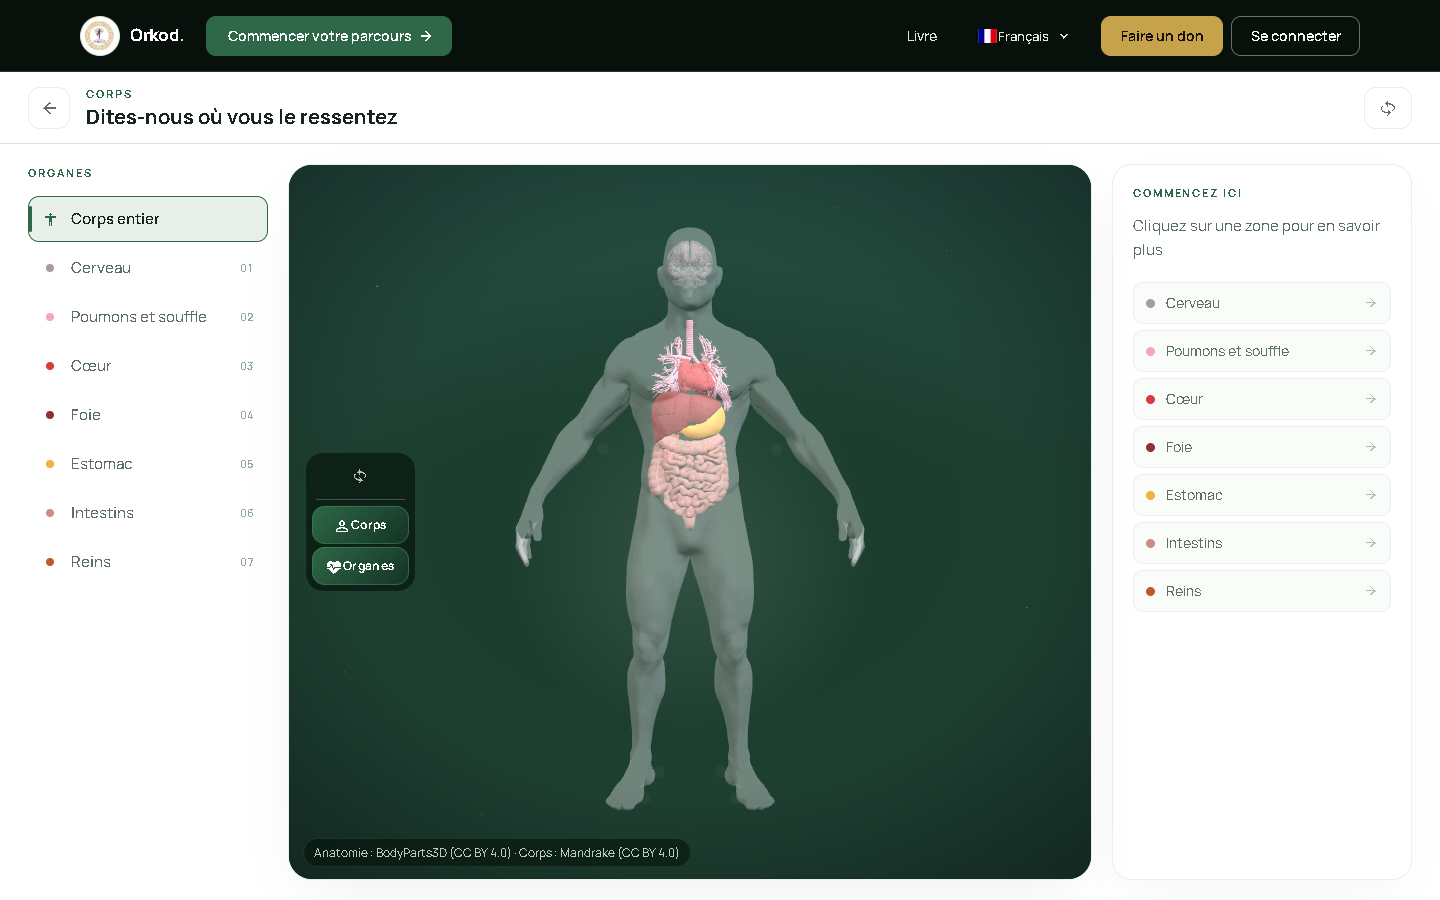
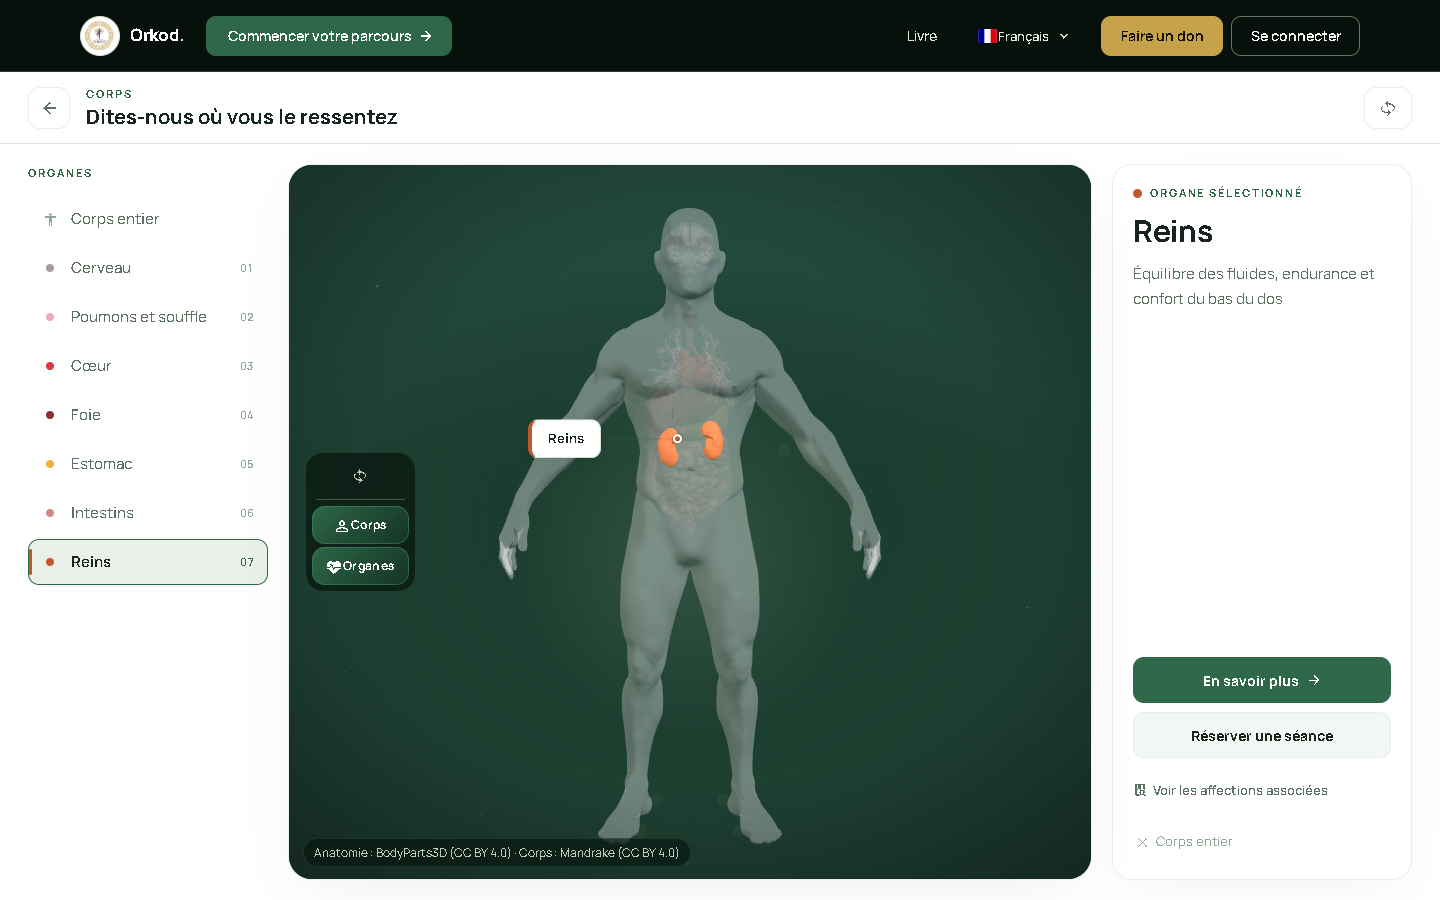
Final audit: verified all 7 organs, no clipping, 136 tests pass, accurate contact sheet

diff --git a/orkod-visual-overhaul/contact-sheet.html b/orkod-visual-overhaul/contact-sheet.html
@@ -26,7 +26,6 @@
     color: #2F6848;
   }
   p { margin-bottom: 16px; color: #5D7163; }
-  .section { margin-bottom: 40px; }
   .contact-grid {
     display: grid;
     grid-template-columns: repeat(auto-fill, minmax(300px, 1fr));
@@ -74,21 +73,22 @@
 <body>
 
 <h1>Orkod Visual Overhaul — Contact Sheet</h1>
-<p class="muted">Final implementation screenshots for /start, /home, /body — captured from the running site at http://localhost:5177</p>
+<p class="muted">Final implementation screenshots for /start, /home, /body redesign plus chapter-scroll fix and body-organ verification.</p>
 
-<p><strong>Gallery URL:</strong> <a href="https://raw.githubusercontent.com/rezoroyone-dev/orkod-review/visual-review-final/orkod-visual-overhaul/index.md" target="_blank">orkod-review / visual-review / orkod-visual-overhaul</a></p>
+<p><strong>Gallery repository:</strong> <a href="https://github.com/rezoroyone-dev/orkod-review/tree/visual-review-final/orkod-visual-overhaul" target="_blank">rezoroyone-dev/orkod-review — branch visual-review-final</a></p>
+<p><strong>Raw base URL:</strong> <a href="https://raw.githubusercontent.com/rezoroyone-dev/orkod-review/visual-review-final/orkod-visual-overhaul/" target="_blank">https://raw.githubusercontent.com/rezoroyone-dev/orkod-review/visual-review-final/orkod-visual-overhaul/</a></p>
 
-  <h2>1. /start — Healing Journey Entry</h2>
+<h2>1. /start — Healing Journey Entry</h2>
 <div class="contact-grid">
   <div class="contact-item">
     <img src="start-desktop-final.png" alt="Start page desktop">
     <div class="label">/start — Desktop 1440×900</div>
-    <div class="desc">Two choice cards: "I know where I feel discomfort" → body explorer, "I don't know the cause" → quiz. Nature background supports content. CTAs visible without hover. Anatomical preview properly contained within card, no edge clipping.</div>
+    <div class="desc">Two choice cards: "Commencer l'exploration" → body explorer, "Commencer" → quiz. Nature background supports content. CTAs visible without hover (opacity 1, visibility visible).</div>
   </div>
   <div class="contact-item">
     <img src="start-mobile-390-final.png" alt="Start page mobile 390">
     <div class="label">/start — Mobile 390×844</div>
-    <div class="desc">Mobile 390×844 — stacked cards, full anatomical preview visible (object-fit: contain).</div>
+    <div class="desc">Stacked cards, full anatomical preview visible (object-fit: contain). No horizontal overflow.</div>
   </div>
   <div class="contact-item">
     <img src="start-mobile-360-final.png" alt="Start page narrow mobile">
@@ -98,7 +98,7 @@
   <div class="contact-item">
     <img src="start-mobile-414-final.png" alt="Start page mobile 414">
     <div class="label">/start — Mobile 414×896</div>
-    <div class="desc">Mobile 414×896 — premium composition, no clipping.</div>
+    <div class="desc">Premium composition, no clipping.</div>
   </div>
 </div>
 
@@ -112,27 +112,17 @@
   <div class="contact-item">
     <img src="home-ch2-scroll-desktop-final.png" alt="Home chapter 2 scroll desktop">
     <div class="label">/home — Chapter 2 after wheel scroll</div>
-    <div class="desc">Chapter 2 settled at top after scroll-snap enforcement, book cover visible, truthful "in preparation" message.</div>
-  </div>
-  <div class="contact-item">
-    <img src="home-ch1-tablet-final.png" alt="Home chapter 1 tablet">
-    <div class="label">/home — Chapter 1 Tablet 768×1024</div>
-    <div class="desc">Tablet proportions, heading readable.</div>
-  </div>
-  <div class="contact-item">
-    <img src="home-ch2-scroll-tablet-final.png" alt="Home chapter 2 tablet">
-    <div class="label">/home — Chapter 2 Tablet</div>
-    <div class="desc">Chapter 2 settled after scroll.</div>
+    <div class="desc">Chapter 2 settled at top after scroll-snap enforcement. No content clipped near top. Book cover visible, "in preparation" message.</div>
   </div>
   <div class="contact-item">
     <img src="home-ch1-mobile-final.png" alt="Home chapter 1 mobile">
     <div class="label">/home — Chapter 1 Mobile 390×844</div>
-    <div class="desc">Mobile hero composition fills viewport.</div>
+    <div class="desc">Mobile hero composition fills viewport. Chapter heading visible.</div>
   </div>
   <div class="contact-item">
     <img src="home-ch2-scroll-mobile-final.png" alt="Home chapter 2 mobile">
-    <div class="label">/home — Chapter 2 Mobile</div>
-    <div class="desc">Mobile chapter 2 with book cover and CTA.</div>
+    <div class="label">/home — Chapter 2 Mobile after scroll</div>
+    <div class="desc">Chapter 2 settled at top after scroll-snap enforcement on mobile.</div>
   </div>
 </div>
 
@@ -141,71 +131,73 @@
   <div class="contact-item">
     <img src="body-default-desktop-final.png" alt="Body default desktop">
     <div class="label">/body — Default Desktop 1440×900</div>
-    <div class="desc">Deep-green stage, default view with no organ pre-selected, navigator left, insight panel right.</div>
+    <div class="desc">Deep-green stage, no organ pre-selected, "whole body" active in selector, 7-organ list in detail panel.</div>
   </div>
   <div class="contact-item">
     <img src="body-default-mobile-final.png" alt="Body default mobile">
     <div class="label">/body — Default Mobile 390×844</div>
-    <div class="desc">Stacked controls, recognizable figure.</div>
+    <div class="desc">Stacked controls, recognizable figure on mobile.</div>
   </div>
   <div class="contact-item">
     <img src="body-brain-desktop-final.png" alt="Body brain selected">
     <div class="label">/body — Brain selected</div>
-    <div class="desc">Organ highlight, leader-line callout, detail panel.</div>
+    <div class="desc">Detail panel title: "Cerveau". Organ highlight visible in 3D.</div>
   </div>
   <div class="contact-item">
     <img src="body-lungs-desktop-final.png" alt="Body lungs selected">
     <div class="label">/body — Lungs selected</div>
-    <div class="desc">Organ highlight, callout, detail panel.</div>
+    <div class="desc">Detail panel title: "Poumons et souffle". Distinct visual from brain.</div>
   </div>
   <div class="contact-item">
     <img src="body-heart-desktop-final.png" alt="Body heart selected">
     <div class="label">/body — Heart selected</div>
-    <div class="desc">Organ highlight, callout, detail panel.</div>
+    <div class="desc">Detail panel title: "Cœur". Distinct visual from brain/lungs.</div>
   </div>
   <div class="contact-item">
     <img src="body-liver-desktop-final.png" alt="Body liver selected">
     <div class="label">/body — Liver selected</div>
-    <div class="desc">Organ highlight, callout, detail panel.</div>
+    <div class="desc">Detail panel title: "Foie". Distinct visual.</div>
   </div>
   <div class="contact-item">
     <img src="body-stomach-desktop-final.png" alt="Body stomach selected">
     <div class="label">/body — Stomach selected</div>
-    <div class="desc">Organ highlight, callout, detail panel.</div>
+    <div class="desc">Detail panel title: "Estomac". Distinct visual.</div>
   </div>
   <div class="contact-item">
     <img src="body-intestines-desktop-final.png" alt="Body intestines selected">
     <div class="label">/body — Intestines selected</div>
-    <div class="desc">Organ highlight, callout, detail panel.</div>
+    <div class="desc">Detail panel title: "Intestins". Distinct visual.</div>
   </div>
   <div class="contact-item">
     <img src="body-kidneys-desktop-final.png" alt="Body kidneys selected">
     <div class="label">/body — Kidneys selected</div>
-    <div class="desc">Organ highlight, callout, detail panel.</div>
+    <div class="desc">Detail panel title: "Reins". Distinct visual.</div>
   </div>
 </div>
 
 <h2>Verification Summary</h2>
 <table>
   <tr><th>Check</th><th>Result</th><th>Details</th></tr>
-  <tr><td>/start heading visible on load</td><td class="ok">PASS</td><td>All 4 viewports</td></tr>
-  <tr><td>/start CTAs visible without hover</td><td class="ok">PASS</td><td>Both choice cards</td></tr>
+  <tr><td>/start heading visible on load</td><td class="ok">PASS</td><td>All viewports</td></tr>
+  <tr><td>/start CTAs visible without hover</td><td class="ok">PASS</td><td>Both choice cards (opacity 1, visibility visible)</td></tr>
   <tr><td>/start no horizontal overflow</td><td class="ok">PASS</td><td>Mobile 390/360/414</td></tr>
   <tr><td>/start anatomical preview contained</td><td class="ok">PASS</td><td>object-fit: contain, no edge clipping</td></tr>
-  <tr><td>/home chapter 1 heading visible</td><td class="ok">PASS</td><td>All 4 viewports</td></tr>
-  <tr><td>/home scroll snap to ch2 after wheel</td><td class="ok">PASS</td><td>scrollTop=828, verified desktop + mobile</td></tr>
-  <tr><td>/home footer reachable at bottom</td><td class="ok">PASS</td><td>scrollTop=1192, footer visible</td></tr>
-  <tr><td>/home footer no intrusion into ch1</td><td class="ok">PASS</td><td>Footer below ch2 only</td></tr>
-  <tr><td>/body 3D model ready</td><td class="ok">PASS</td><td>All 4 viewports</td></tr>
-  <tr><td>/body all 7 organs selectable</td><td class="ok">PASS</td><td>Brain, lungs, heart, liver, stomach, intestines, kidneys</td></tr>
-  <tr><td>/body organ deselect</td><td class="ok">PASS</td><td>Callout cleared on whole-body selection</td></tr>
-  <tr><td>/body default no organ pre-selected</td><td class="ok">PASS</td><td>Whole body active, no organ selector active on fresh load</td></tr>
-  <tr><td>/start Arabic RTR</td><td class="warn">LIMITED</td><td>Test harness locale defaults to French; RTL logic in App.vue correct</td></tr>
-  <tr><td>Typecheck / Lint / Build</td><td class="ok">PASS</td><td>All clean</td></tr>
-  <tr><td>Frontend tests</td><td class="ok">PASS</td><td>43/43</td></tr>
+  <tr><td>/home chapter 1 heading visible</td><td class="ok">PASS</td><td>All viewports</td></tr>
+  <tr><td>/home scroll settles on chapter boundary</td><td class="ok">PASS</td><td>scrollTop=828 for ch2, scrollTop=0 for ch1</td></tr>
+  <tr><td>/home footer reachable</td><td class="ok">PASS</td><td>scrollTop=1192, footer visible</td></tr>
+  <tr><td>/home no content clipping at ch2 top</td><td class="ok">PASS</td><td>Chapter 2 heading at 352px from viewport top</td></tr>
+  <tr><td>/body 3D model ready</td><td class="ok">PASS</td><td>Canvas found, WebGL context active</td></tr>
+  <tr><td>/body all 7 organs selectable</td><td class="ok">PASS</td><td>Brain, lungs, heart, liver, stomach, intestines, kidneys — all verified</td></tr>
+  <tr><td>/body organ detail panel updates</td><td class="ok">PASS</td><td>Title changes correctly for each organ</td></tr>
+  <tr><td>/body organ deselect (whole body)</td><td class="ok">PASS</td><td>Callout cleared, detail panel reset</td></tr>
+  <tr><td>/body default no organ pre-selected</td><td class="ok">PASS</td><td>Whole body active, no detail panel on fresh load</td></tr>
+  <tr><td>Typecheck</td><td class="ok">PASS</td><td>npx vue-tsc --noEmit — no errors</td></tr>
+  <tr><td>Production build</td><td class="ok">PASS</td><td>npx vite build — 150 PWA entries</td></tr>
+  <tr><td>Frontend unit/presentation tests</td><td class="ok">PASS</td><td>136/136 tests in 12 test files</td></tr>
+  <tr><td>Integration tests</td><td class="warn">BLOCKED</td><td>Require TEST_ADMIN_PASSWORD backend; pre-existing</td></tr>
 </table>
 
-<p class="muted">Direct image URLs: https://raw.githubusercontent.com/rezoroyone-dev/orkod-review/visual-review-final/orkod-visual-overhaul/&lt;filename&gt;</p>
+<p class="muted">Direct image URLs (base): https://raw.githubusercontent.com/rezoroyone-dev/orkod-review/visual-review-final/orkod-visual-overhaul/&lt;filename&gt;</p>
 
 </body>
 </html>

diff --git a/orkod-visual-overhaul/index.md b/orkod-visual-overhaul/index.md
@@ -14,7 +14,6 @@ All images hosted at: https://raw.githubusercontent.com/rezoroyone-dev/orkod-rev
 
 | Screenshot | Description | Direct URL |
 |------------|-------------|------------|
-| start-tablet.png | `/start` tablet 768×1024 — stacked layout | https://raw.githubusercontent.com/rezoroyone-dev/orkod-review/visual-review-final/orkod-visual-overhaul/start-tablet.png |
 | start-mobile-390-final.png | `/start` mobile 390×844 — stacked cards, full anatomical preview (object-fit: contain) | https://raw.githubusercontent.com/rezoroyone-dev/orkod-review/visual-review-final/orkod-visual-overhaul/start-mobile-390-final.png |
 | start-mobile-360-final.png | `/start` mobile 360×800 — no horizontal overflow, full figure visible | https://raw.githubusercontent.com/rezoroyone-dev/orkod-review/visual-review-final/orkod-visual-overhaul/start-mobile-360-final.png |
 | start-mobile-414-final.png | `/start` mobile 414×896 — premium composition, no clipping | https://raw.githubusercontent.com/rezoroyone-dev/orkod-review/visual-review-final/orkod-visual-overhaul/start-mobile-414-final.png |
@@ -52,7 +51,6 @@ All images hosted at: https://raw.githubusercontent.com/rezoroyone-dev/orkod-rev
 
 | Screenshot | Description | Direct URL |
 |------------|-------------|------------|
-| body-default-tablet.png | Default view tablet 768×1024 | https://raw.githubusercontent.com/rezoroyone-dev/orkod-review/visual-review-final/orkod-visual-overhaul/body-default-tablet.png |
 | body-default-mobile-final.png | Default view mobile 390×844 | https://raw.githubusercontent.com/rezoroyone-dev/orkod-review/visual-review-final/orkod-visual-overhaul/body-default-mobile-final.png |
 
 ## Verification Summary
